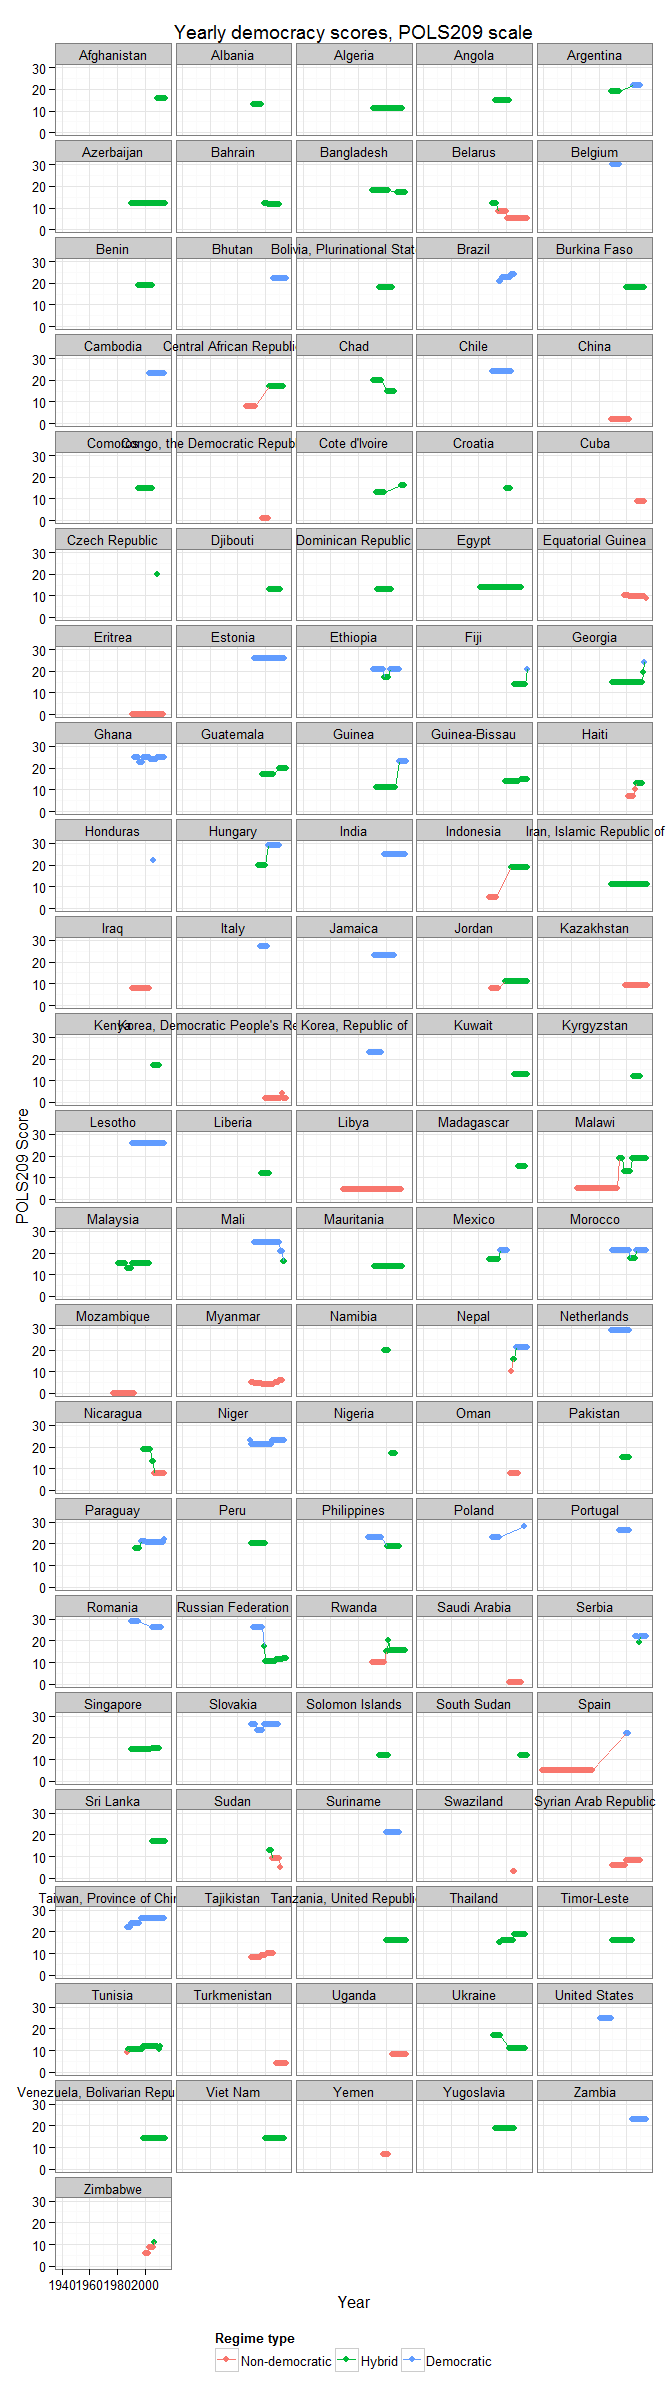
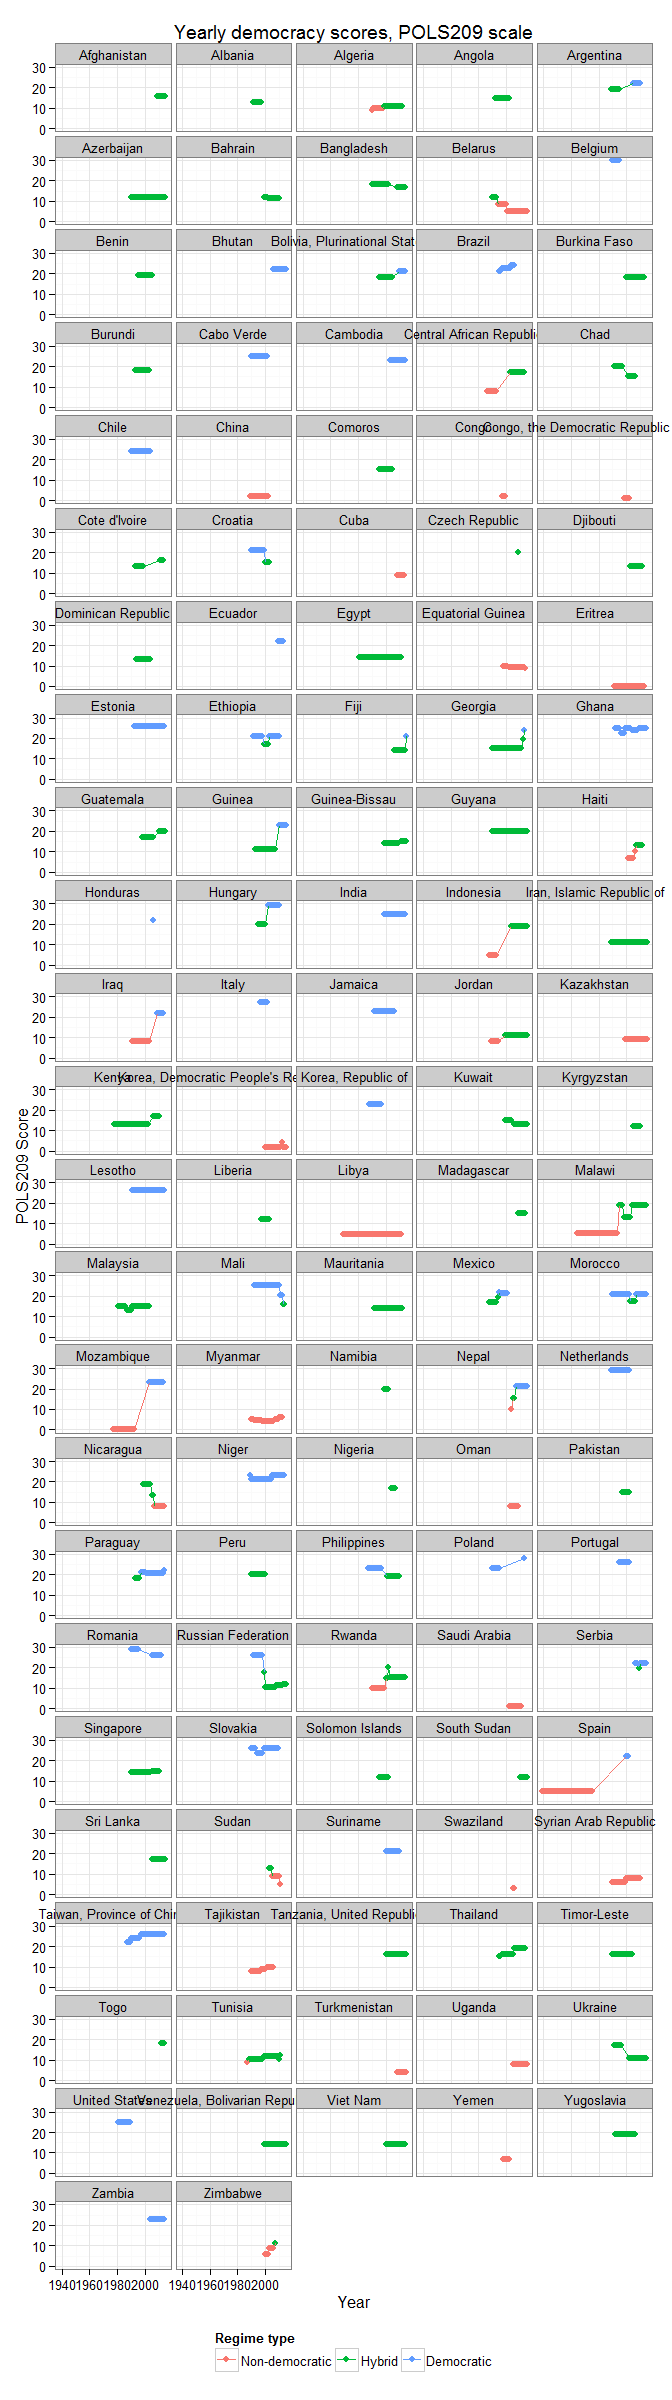
Updated figures with latest data

diff --git a/Preliminary_description_of_data.html b/Preliminary_description_of_data.html
@@ -58,7 +58,7 @@ if (window.hljs && document.readyState && document.readyState === "complete") {
 
 
 <p>(This post will be updated as new data – late submissions – come in. Another post analysing the correlation between our regime data and corruption data will follow in the middle of the week).</p>
-<p>(Last updated 2015-05-26 16:38:12)</p>
+<p>(Last updated 2015-05-26 17:02:33)</p>
 <p>We have now gathered enough data to start answering the research question you selected at the beginning of the term (seems like ages ago!). You designed a classification system in tutorials, and individually gathered data on lots of countries (117 so far to be exact). And the results are really good; your classification correlates at 0.78 with <a href="httm://freedomhouse.org">Freedom House</a> and at 0.75 with <a href="http://www.systemicpeace.org/inscr/">Polity IV</a>. This is not bad at all; Polity IV and Freedom House themselves correlate at 0.89, which is only slightly higher. Professionals do not always agree about whether a country is democratic or not. These results make me feel benevolent; perhaps I should restore some of your points!</p>
 <p>The main version of the dataset your efforts have produced is available <a href="https://www.dropbox.com/s/lce221sg8ftsbz5/rce.csv?dl=0">here</a>. This file collects all your answers, puts them in a spreadsheet format, and calculates the “score” you gave the country. It is not straightforward to use or understand,<a href="#fn1" class="footnoteRef" id="fnref1"><sup>1</sup></a> so in the rest of this post, I will point out some general patterns and show you a couple of useful graphs. (There are also many things we could do with it but are too technical for us; more on these in the second post).</p>
 <p>The first thing we can do is simply to show you the results of your classification. Most countries were rated at different time periods by two or more students; some of you chose longer periods, others chose shorter periods of time, but most chose periods of at least 4-5 years, which gives us a reasonable amount of regime data (including some transitions to democracy or to authoritarianism, since the periods chosen by you often overlapped for a given country). We can thus simply average each student rating per year and plot the results per country, showing the variation over time and space in the POLS209 “democracy score”:</p>

diff --git a/Preliminary_description_of_data.md b/Preliminary_description_of_data.md
@@ -2,7 +2,7 @@
 
 (This post will be updated as new data -- late submissions -- come in. Another post analysing the correlation between our regime data and corruption data will follow in the middle of the week).
 
-(Last updated 2015-05-26 16:38:12)
+(Last updated 2015-05-26 17:02:33)
 
 
 
